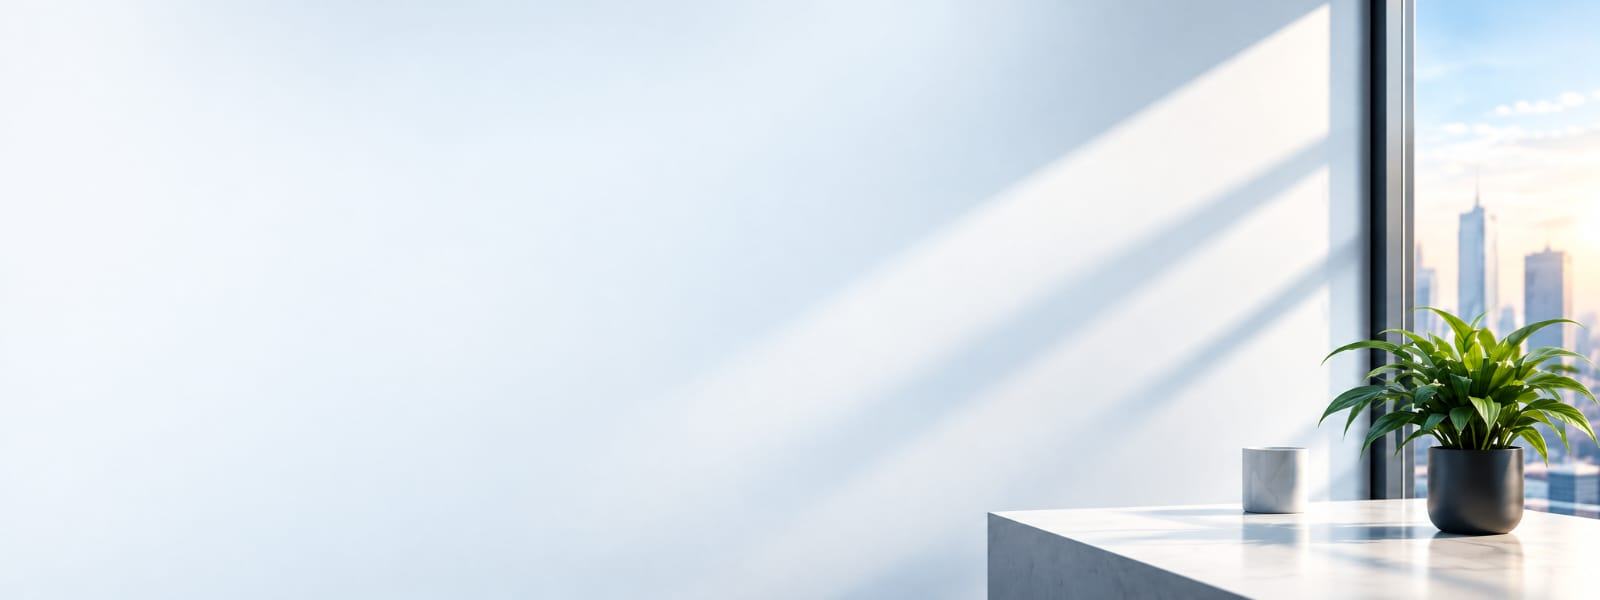
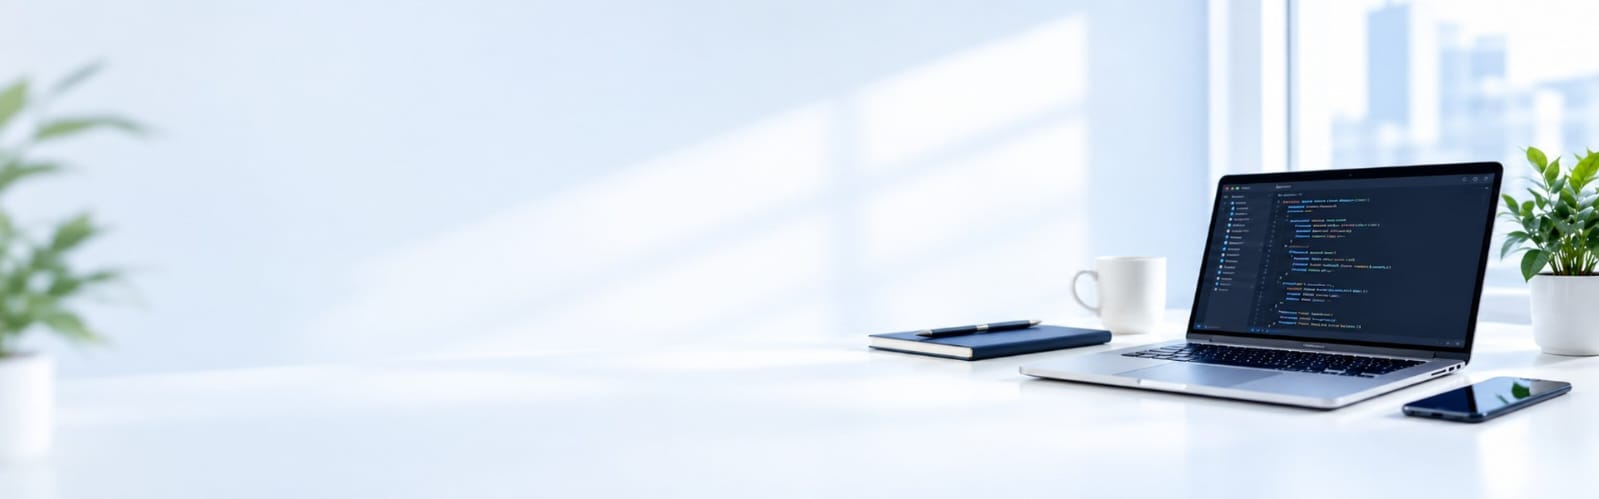
updates

diff --git a/css/style.css b/css/style.css
@@ -475,7 +475,7 @@ textarea {
   inset: 0;
   width: 100%;
   height: 100%;
-  background-image: url('../assets/images/mobile-hero.jpeg');
+  /* background-image: url('../assets/images/mobile-hero.jpeg'); */
   background-size: cover;
   background-position: center bottom;
   background-repeat: no-repeat;
@@ -485,7 +485,7 @@ textarea {
 
 @media (min-width: 768px) {
   .hero-bg-art {
-    background-image: url('../assets/images/hero-bg.png');
+    /* background-image: url('../assets/images/hero-bg.png'); */
     background-position: 55% center;
   }
 }
@@ -1321,7 +1321,7 @@ textarea {
    ========================================================================== */
 .about-section {
   position: relative;
-  background-color: #FAF9F5;
+  /* background-color: #FAF9F5; */
   padding: 6rem 0 6.5rem;
   overflow: hidden;
 }

diff --git a/css/contactpage.css b/css/contactpage.css
@@ -79,7 +79,7 @@
    1. Contact Hero Section (Compact Text Layout with Optimal Placement)
    ========================================================================= */
 .contact-hero-section {
-  background-color: #faf9f6;
+  /* background-color: #faf9f6; */
   padding: 3.5rem 0 2.25rem;
   position: relative;
   overflow: hidden;

diff --git a/css/aboutpage.css b/css/aboutpage.css
@@ -98,7 +98,7 @@
    1. Hero Section ("Innovative Solutions. Powered by People.")
    ========================================================================= */
 .about-hero-section {
-  background-color: #faf9f6;
+  /* background-color: #faf9f6; */
   padding: 6.25rem 0 3.5rem;
   position: relative;
   overflow: hidden;
